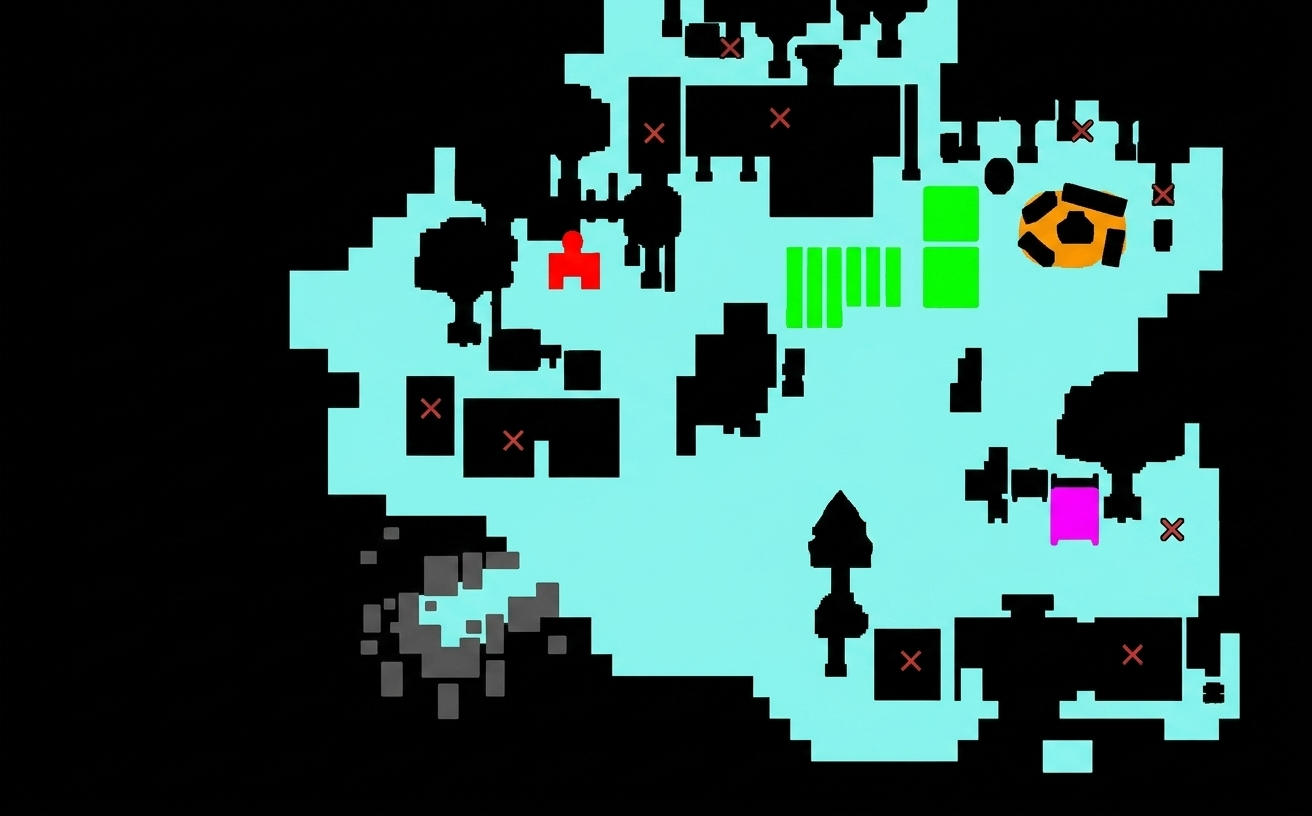
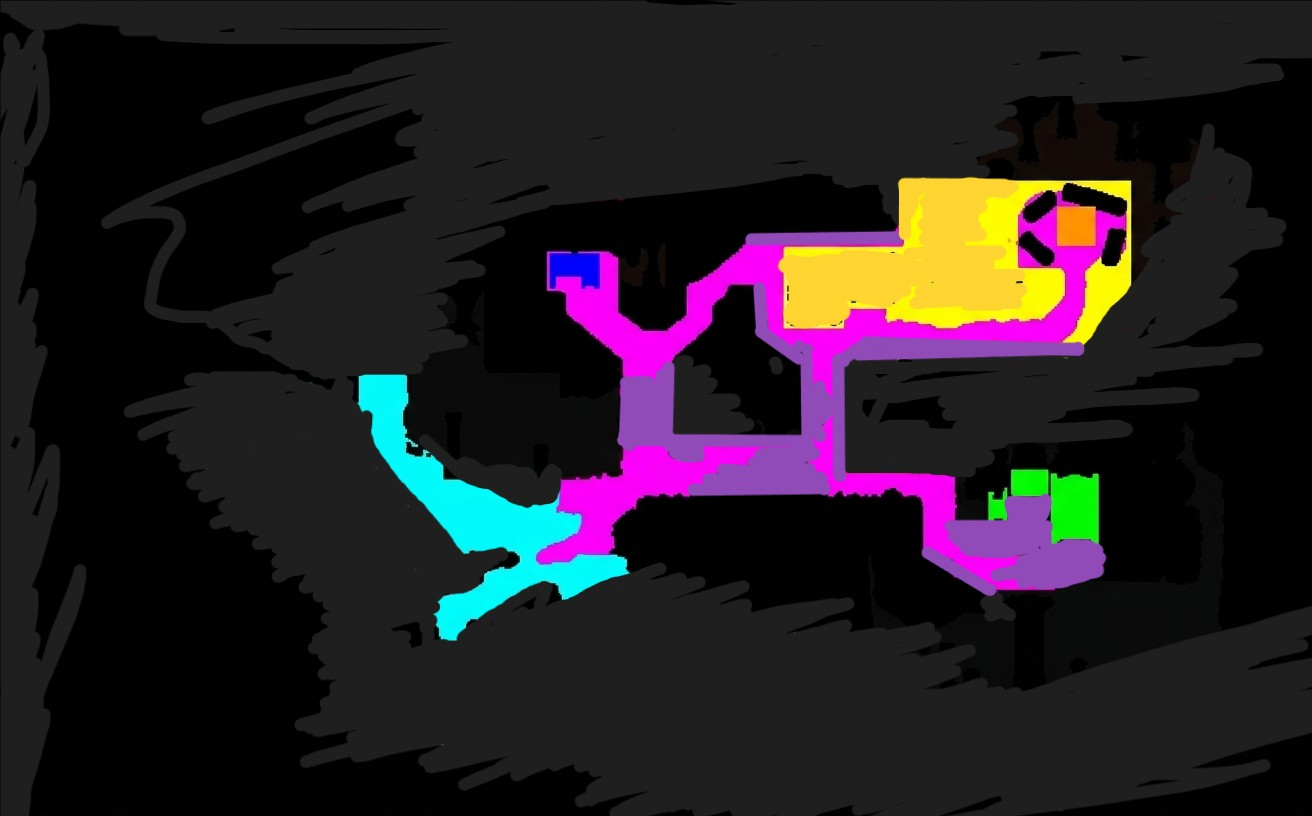
改为glm，重置地图绑定

diff --git a/docs/calypso_sprite_sheet_scan.md b/docs/calypso_sprite_sheet_scan.md
@@ -1,0 +1,132 @@
+# Calypso Sprite Sheet Scan
+
+Result of scanning every PNG in `pictures/Calypso/` on 2026-08-19. The scan
+does **not** assume 64×64 frames or a fixed frame count: frames are located by
+finding fully transparent column gutters, then each content run is cropped to
+its tight bounding box. `sleep.png` has no gutters and is treated as a single
+wide frame.
+
+## Summary
+
+| Sheet | Size | Alpha channel | Layout | Frames | Frame sizes (per frame) | Gutter pitch |
+| --- | --- | --- | --- | --- | --- | --- |
+| `front_walk.png` | 1312×816 | RGBA, yes | 1 row × 4 col | 4 | 156×378, 173×379, 184×378, 155×379 | 297, 294, 307 |
+| `back_walk.png` | 1312×816 | RGBA, yes | 1 row × 4 col | 4 | 149×379, 171×378, 176×378, 154×379 | 274, 304, 312 |
+| `left_walk.png` | 1312×816 | RGBA, yes | 1 row × 4 col | 4 | 162×380, 182×379, 148×380, 160×380 | 292, 352, 266 |
+| `right_walk.png` | 1312×816 | RGBA, yes | 1 row × 4 col | 4 | 166×378, 153×378, 182×378, 148×379 | 287, 313, 302 |
+| `front_rest.png` | 1312×816 | RGBA, yes | 1 row × 4 col | 4 | 259×337, 257×338, 254×337, 260×337 | 304, 301, 294 |
+| `back_rest .png` | 1312×816 | RGBA, yes | 1 row × 4 col | 4 | 258×337, 257×338, 253×338, 259×337 | 303, 301, 295 |
+| `sleep.png` | 1312×816 | RGBA, yes | 1 row × 1 col | 1 | 1276×291 (single frame) | — |
+| `typing.png` | 1312×816 | RGBA, yes | 1 row × 4 col | 4 | 230×379, 240×379, 237×379, 234×378 | 322, 332, 315 |
+
+All sheets are `1312×816` RGBA. Between 67% and 86% of each sheet is fully
+transparent padding; 11 000–20 000 pixels per sheet are semi-transparent
+(anti-aliased edges). Every sheet is single-row; none uses a second row.
+
+## Key findings
+
+1. **No fixed grid.** Frames in the same sheet vary in size (e.g.
+   `front_walk.png`: 155×379 → 184×378) and the spacing between frame origins
+   is irregular (266–352 px). Slicing these sheets with a uniform grid would
+   clip or mis-center the frames.
+2. **`sleep.png` is one frame.** It is a single connected content region
+   (1276×291) with no transparent vertical separator anywhere, so it must not
+   be split into two half-frames.
+3. **Standing vs. lying heights differ.** Rest frames are ~338 px tall, walk
+   and typing frames ~378–380 px, the sleep pose only 291 px. Animations are
+   bottom-aligned to a common 380 px cell so feet stay planted on the same
+   point across animations.
+4. **`back_rest .png` contains a space** before `.png`; it is referenced with
+   that exact name.
+
+## Frame bounding boxes (x0, y0, x1, y1)
+
+`front_walk.png`
+
+```
+#0 (132, 202, 287, 579)   #1 (429, 201, 601, 579)
+#2 (723, 202, 906, 579)   #3 (1030, 201, 1184, 579)
+```
+
+`back_walk.png`
+
+```
+#0 (134, 201, 282, 579)   #1 (408, 202, 578, 579)
+#2 (712, 202, 887, 579)   #3 (1024, 201, 1177, 579)
+```
+
+`left_walk.png`
+
+```
+#0 (112, 201, 273, 580)   #1 (404, 201, 585, 579)
+#2 (756, 201, 903, 580)   #3 (1022, 201, 1181, 580)
+```
+
+`right_walk.png`
+
+```
+#0 (126, 201, 291, 578)   #1 (413, 202, 565, 579)
+#2 (726, 201, 907, 578)   #3 (1028, 201, 1175, 579)
+```
+
+`front_rest.png`
+
+```
+#0 (77, 203, 335, 539)    #1 (381, 202, 637, 539)
+#2 (682, 203, 935, 539)   #3 (976, 203, 1235, 539)
+```
+
+`back_rest .png`
+
+```
+#0 (78, 203, 335, 539)    #1 (381, 202, 637, 539)
+#2 (682, 202, 934, 539)   #3 (977, 203, 1235, 539)
+```
+
+`sleep.png`
+
+```
+#0 (18, 242, 1293, 532)
+```
+
+`typing.png`
+
+```
+#0 (51, 235, 280, 613)    #1 (373, 235, 612, 613)
+#2 (705, 235, 941, 613)   #3 (1020, 235, 1253, 612)
+```
+
+## AnimatedSprite2D animations
+
+`scenes/calypso.tscn` contains the `AnimatedSprite2D` node. In
+`scripts/calypso.gd`, `_build_sprite_frames()` loads each sheet and builds
+`SpriteFrames` animations at runtime using the same detection above:
+
+| Animation | Source sheet | Frames | FPS (config) |
+| --- | --- | --- | --- |
+| `walk_down` | `front_walk.png` | 4 | `movement/walk_fps` (8) |
+| `walk_up` | `back_walk.png` | 4 | `movement/walk_fps` (8) |
+| `walk_left` | `left_walk.png` | 4 | `movement/walk_fps` (8) |
+| `walk_right` | `right_walk.png` | 4 | `movement/walk_fps` (8) |
+| `idle_down` | `front_rest.png` | 4 | `movement/idle_fps` (4) |
+| `idle_up` | `back_rest .png` | 4 | `movement/idle_fps` (4) |
+| `sleep` | `sleep.png` | 1 | `movement/sleep_fps` (2) |
+| `typing` | `typing.png` | 4 | `movement/walk_fps` (8) |
+
+Each frame texture is cut to its tight bounding box, horizontally centered on
+a per-animation canvas, and bottom-aligned on the common 380 px cell height so
+every pose stands on the same baseline. The `AnimatedSprite2D` offset is set to
+`-cell_height/2`, and the character's visual width used for scaling comes only
+from the four walk sheets.
+
+> Fix included in this pass: `SpriteSheetUtils._tight_rect()` previously
+> assigned `max_y = y` instead of `maxi(max_y, y)`, so every frame's bottom
+> edge was clipped to the bottom of the frame's *rightmost* content column
+> (feet were cut off). The measured heights above are the true tight
+> bounding boxes after the fix.
+
+Re-run the scan any time with:
+
+```
+godot --headless --path . --script res://scripts/tools/scan_calypso_sheets.gd
+```
